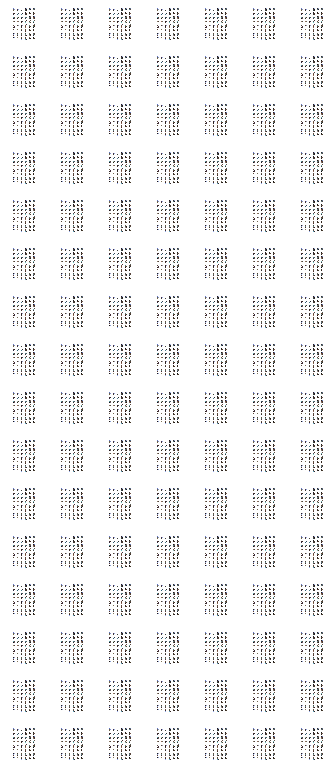
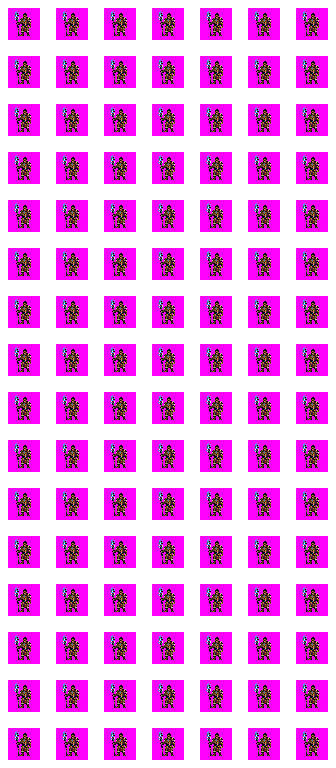
fix

diff --git a/fix_assets_v4.py b/fix_assets_v4.py
@@ -1,0 +1,67 @@
+import os
+from PIL import Image
+
+def ultra_fix(input_path, output_path, is_shaman=False):
+    print(f"Reparación ultra-limpia: {input_path}...")
+    if not os.path.exists(input_path):
+        return
+
+    img = Image.open(input_path).convert("RGBA")
+    
+    # 1. Limpieza radical del fondo blanco (escanea píxel por píxel)
+    data = img.getdata()
+    new_data = []
+    for item in data:
+        # Si r, g, b son todos muy altos (blanco), lo hacemos 100% transparente
+        if item[0] > 235 and item[1] > 235 and item[2] > 235:
+            new_data.append((255, 255, 255, 0))
+        else:
+            new_data.append(item)
+    img.putdata(new_data)
+
+    # 2. Recorte inteligente (solo lo que NO es transparente)
+    bbox = img.getbbox()
+    if not bbox:
+        return
+    img = img.crop(bbox)
+
+    # 3. Escalado nítido (NEAREST) para pixel art
+    # Si la imagen ya es pequeña (como el Shaman 48x48), no escalamos mucho
+    if img.height > 64:
+        target_h = 32
+        aspect = img.width / img.height
+        new_w = int(target_h * aspect)
+        img = img.resize((new_w, target_h), Image.Resampling.NEAREST)
+    else:
+        # Si ya es pixel art real de 48x48, solo nos aseguramos de que quepa bien
+        if img.height > 40:
+             aspect = img.width / img.height
+             img = img.resize((int(32 * aspect), 32), Image.Resampling.NEAREST)
+
+    # 4. Centrado en 48x48
+    canvas = Image.new("RGBA", (48, 48), (0,0,0,0))
+    paste_x = (48 - img.width) // 2
+    paste_y = (48 - img.height) // 2
+    canvas.paste(img, (paste_x, paste_y), img)
+
+    # 5. Generar formato final
+    if is_shaman:
+        # Generar Spritesheet completo para que el motor no de errores
+        sheet = Image.new("RGBA", (48 * 7, 48 * 16), (0,0,0,0))
+        for r in range(16):
+            for c in range(7):
+                sheet.paste(canvas, (c * 48, r * 48))
+        sheet.save(output_path)
+    else:
+        canvas.save(output_path)
+    
+    print(f"✅ {output_path} listo.")
+
+if __name__ == "__main__":
+    # Shaman (usando la imagen base 2912 que acabamos de bajar)
+    ultra_fix('assets/class_shaman_v2.png', 'assets/class_shaman.png', is_shaman=True)
+    
+    # NPCs y Mercenarios
+    names = ['npc_blacksmith', 'npc_elder', 'npc_guard', 'npc_merchant', 'mercenary_warrior', 'mercenary_archer']
+    for n in names:
+        ultra_fix(f'assets/{n}.png', f'assets/{n}.png')
